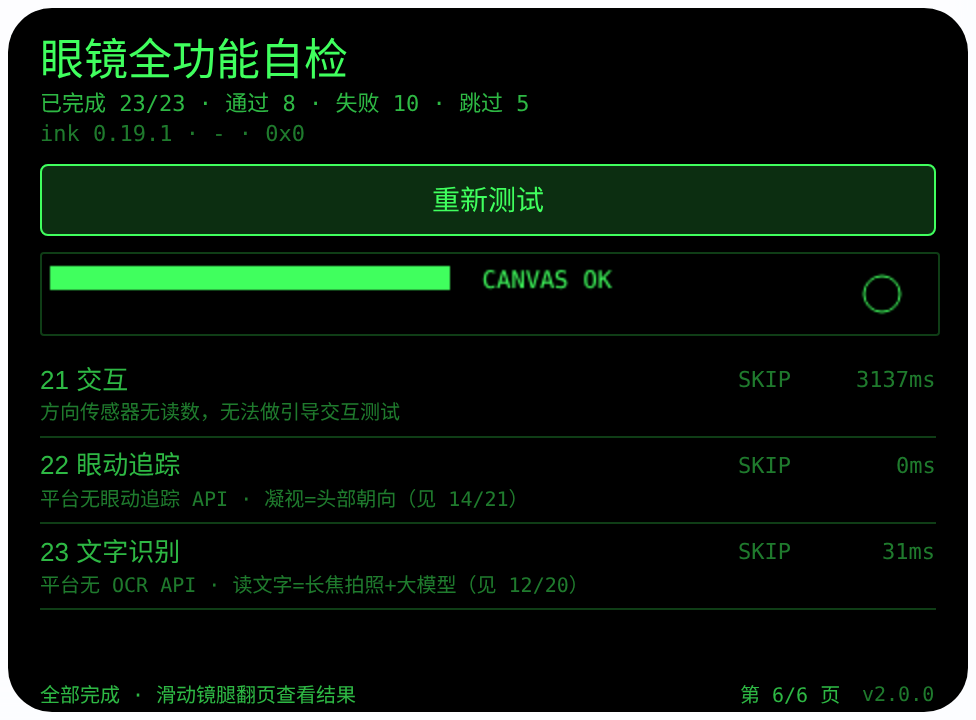
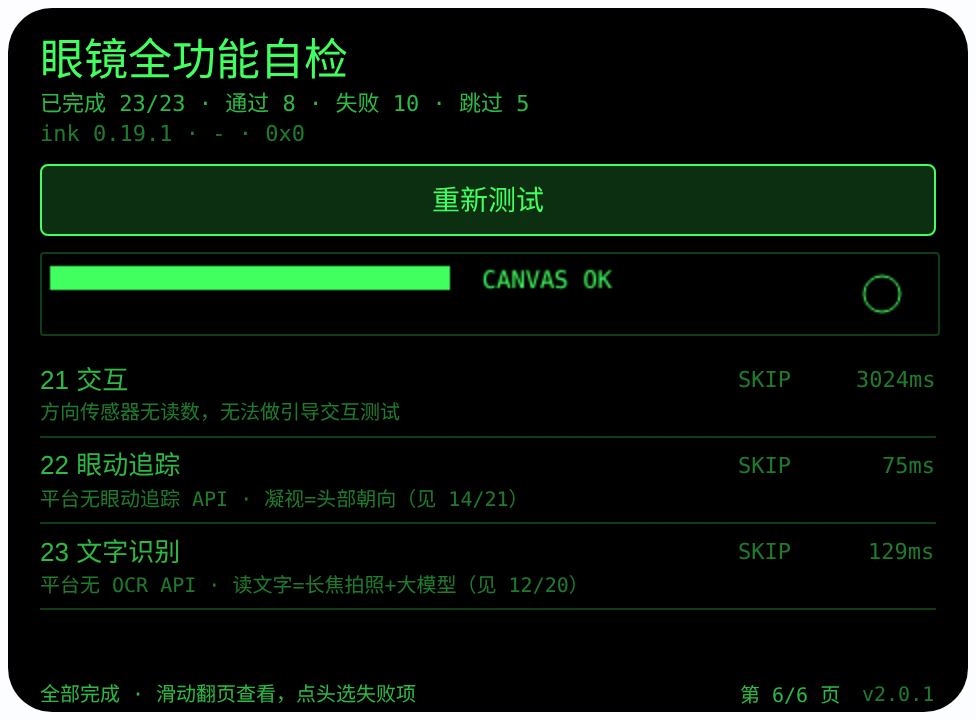
glasses-benchmark v2.0.1: stop auto-restart after run, failed-item selective re-test

diff --git a/glasses-benchmark/README.md b/glasses-benchmark/README.md
@@ -65,7 +65,7 @@ https://github.com/sakai55/rokid/tree/agent-glasses-benchmark
 | 23 | 文字识别（边界） | 平台无 OCR API——恒为 SKIP 并注明：读文字走 telephoto 拍照 + LLM 图片输入（见 12/20），永不报 PASS |
 
 状态：PASS / FAIL / SKIP（硬件或主机不支持、或平台无此 API）/ MANUAL（未开始）。
-单击开始后顺序跑完全部 23 项；第 21 项（交互）会用语音逐个提示动作，跟着做即可。每测完一项语音播报结果，全部完成播报汇总。
+单击开始后顺序跑完全部 23 项；第 21 项（交互）会用语音逐个提示动作，跟着做即可。每测完一项语音播报结果，全部完成播报汇总。失败项：跑完后点头选中（高亮显示），单击单独重测；通过后选择自动清除，仍失败则保留选择可再重测。
 
 ## 操作方式（镜腿手势映射）
 
@@ -73,9 +73,9 @@ https://github.com/sakai55/rokid/tree/agent-glasses-benchmark
 
 | 手势 | 键事件 | 作用 |
 |---|---|---|
-| 单击 | Enter / GlobalHook | 开始测试；跑完后单击 = 重新测试（运行中单击无动作） |
-| 点头 | onHeadGesture 'nod' | 与单击相同：开始 / 重新测试 |
-| 滑动 | ArrowUp / ArrowDown | 翻页查看结果（每页 4 项，共 6 页；运行中页面自动跟随最新完成项，也可手动翻页） |
+| 单击 | Enter / GlobalHook | 开始测试；有选中失败项时 = 单独重测该项；跑完后单击 = 全部重新测试（运行中单击无动作；跑完 2 秒内的单击会被忽略，防重复触发） |
+| 点头 | onHeadGesture 'nod' | 跑完后：选中下一个失败项（循环，高亮 + 语音播报）；引导交互测试内：点头是第 5 个动作。点头不启动测试 |
+| 滑动 | ArrowUp / ArrowDown | 翻页查看结果（每页 4 项，共 6 页；运行中页面自动跟随最新完成项，也可手动翻页；滑动会清除当前选择） |
 | 双击 | Backspace | 交给系统：返回 / 退出（页面不拦截） |
 
 屏幕上的「开始测试」按钮同时保留点击绑定，供 Studio 模拟器用鼠标操作。
@@ -126,6 +126,16 @@ Tap the temple once and I'll test 23 items one by one, from display and CPU to c
 - 状态：未齐（已有 2 张图；还需至少 1 个视频，总数补到 3–5 个后才可提交）
 
 ### Change Log
+
+#### v2.0.1（本地包版本；Studio Build 号待重新打包后生成）
+
+**Features added**
+
+- 失败项可选重测：跑完后点头在失败项之间循环选中（页面自动跟随、高亮显示、语音播报选中项），单击单独重测该项；通过后选择清除，仍失败保留选择；滑动翻页清除选择。
+
+**Fixes**
+
+- 跑完自动重开：点头不再启动测试（v2.0.0 里跑完后的点头会把整轮重跑一遍，看起来像停不下来）；另加 2 秒防抖，挡住镜腿单击被重复投递（Enter + GlobalHook）导致跑完瞬间又重开。
 
 #### v2.0.0（本地包版本；Studio Build 号待重新打包后生成）
 

diff --git a/glasses-benchmark/AGENTS.md b/glasses-benchmark/AGENTS.md
@@ -7,7 +7,7 @@ Rokid 眼镜全功能基准测试智能体（AIUI Agent）。
 一个运行在 Rokid 眼镜上的硬件/运行时自检工具。界面只有一个按钮：
 打开后单击镜腿即开始，按官方能力档案的顺序逐项测试，每测完一项
 语音播报结果（通过 / 失败 / 跳过），全部跑完后汇总；结果不滚动，
-用镜腿滑动翻页查看（每页 4 项，共 6 页）。
+用镜腿滑动翻页查看（每页 4 项，共 6 页）。失败项可点头选中、单击单独重测。
 
 ## 能力（测试项）
 
@@ -35,8 +35,10 @@ Rokid 眼镜全功能基准测试智能体（AIUI Agent）。
 
 ## 操作（镜腿手势优先）
 
-- 界面只有一个按钮「开始测试」。单击镜腿（Enter / GlobalHook）或点头 = 开始测试；跑完后单击 = 重新测试。运行中单击无动作。
-- 滑动（ArrowUp / ArrowDown）= 翻页查看结果（每页 4 项，共 6 页；运行中结果页自动跟随最新完成项，也可随时手动翻页）。
+- 界面只有一个按钮「开始测试」。单击镜腿（Enter / GlobalHook）= 开始测试；跑完后单击 = 全部重新测试。运行中单击无动作；跑完 2 秒内的单击会被忽略（防镜腿单击重复投递导致刚跑完又重开）。
+- 点头 = 选择下一个失败项（仅在未运行时；引导交互测试内的点头仍是第 5 个动作）。点头不启动测试——跑完后的点头曾导致整轮自动重开（v2.0.0 缺陷，v2.0.1 已修）。
+- 失败项重测：跑完后点头在失败项之间循环选中（页面自动跟随、高亮显示、语音播报选中项），单击单独重测该项；通过后选择自动清除，仍失败则保留选择可再重测。
+- 滑动（ArrowUp / ArrowDown）= 翻页查看结果（每页 4 项，共 6 页；运行中结果页自动跟随最新完成项，也可随时手动翻页；滑动会清除当前选择）。
 - 双击（Backspace）= 交给系统（返回/退出），页面不拦截。
 - 每测完一项语音播报一次结果；全部完成播报汇总（通过/失败/跳过计数）。
 - 屏幕按钮同时保留 bindtap，供 Studio 模拟器/预览里用鼠标点击。
